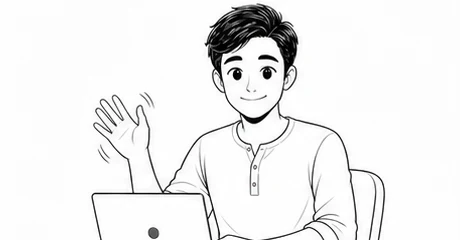
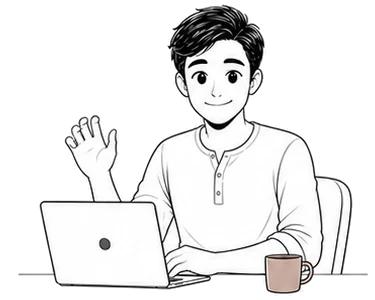
polish hero animation compositing

diff --git a/frontend/src/components/AnimatedHeroIllustration.js b/frontend/src/components/AnimatedHeroIllustration.js
@@ -1,6 +1,7 @@
 import React, { useEffect, useMemo, useRef } from 'react';
 
-const greetingSequence = [0, 1, 2, 3, 4, 5, 6, 7];
+const greetingSequence = [0, 1, 2, 3, 4, 5];
+const initialRestDuration = 1100;
 const greetingFrameDuration = 180;
 const typingFrameDuration = 520;
 
@@ -26,7 +27,7 @@ const AnimatedHeroIllustration = ({ frames, workFrames, alt }) => {
     let lastTimestamp = 0;
     let elapsed = 0;
     let sequencePosition = 0;
-    let phase = hasGreetedRef.current ? 'typing' : 'greeting';
+    let phase = hasGreetedRef.current ? 'typing' : 'resting';
     let isVisible = true;
     let hasDrawn = false;
 
@@ -50,14 +51,21 @@ const AnimatedHeroIllustration = ({ frames, workFrames, alt }) => {
       if (!lastTimestamp) lastTimestamp = timestamp;
       elapsed += timestamp - lastTimestamp;
       lastTimestamp = timestamp;
-      const sequence = phase === 'greeting' ? greetingSequence : typingSequence;
-      const duration = phase === 'greeting'
-        ? greetingFrameDuration
-        : typingFrameDuration;
+      const sequence = phase === 'resting'
+        ? [0]
+        : phase === 'greeting' ? greetingSequence : typingSequence;
+      const duration = phase === 'resting'
+        ? initialRestDuration
+        : phase === 'greeting' ? greetingFrameDuration : typingFrameDuration;
 
       if (elapsed >= duration) {
         elapsed = 0;
-        sequencePosition += 1;
+        if (phase === 'resting') {
+          phase = 'greeting';
+          sequencePosition = 0;
+        } else {
+          sequencePosition += 1;
+        }
         if (phase === 'greeting' && sequencePosition >= greetingSequence.length) {
           phase = 'typing';
           sequencePosition = 0;
@@ -71,7 +79,7 @@ const AnimatedHeroIllustration = ({ frames, workFrames, alt }) => {
     };
 
     const handleScroll = () => {
-      if (phase !== 'greeting' || window.scrollY < 48) return;
+      if (!['resting', 'greeting'].includes(phase) || window.scrollY < 48) return;
       phase = 'typing';
       sequencePosition = 0;
       elapsed = 0;

diff --git a/frontend/src/components/Hero.css b/frontend/src/components/Hero.css
@@ -130,6 +130,12 @@
   box-shadow: 0 4px 20px rgba(0, 0, 0, 0.1);
 }
 
+.hero-animation .hero-photo,
+.hero-animation .hero-animation-canvas {
+  border-radius: 0;
+  box-shadow: none;
+}
+
 .hero-animation-canvas {
   position: absolute;
   inset: 0;
